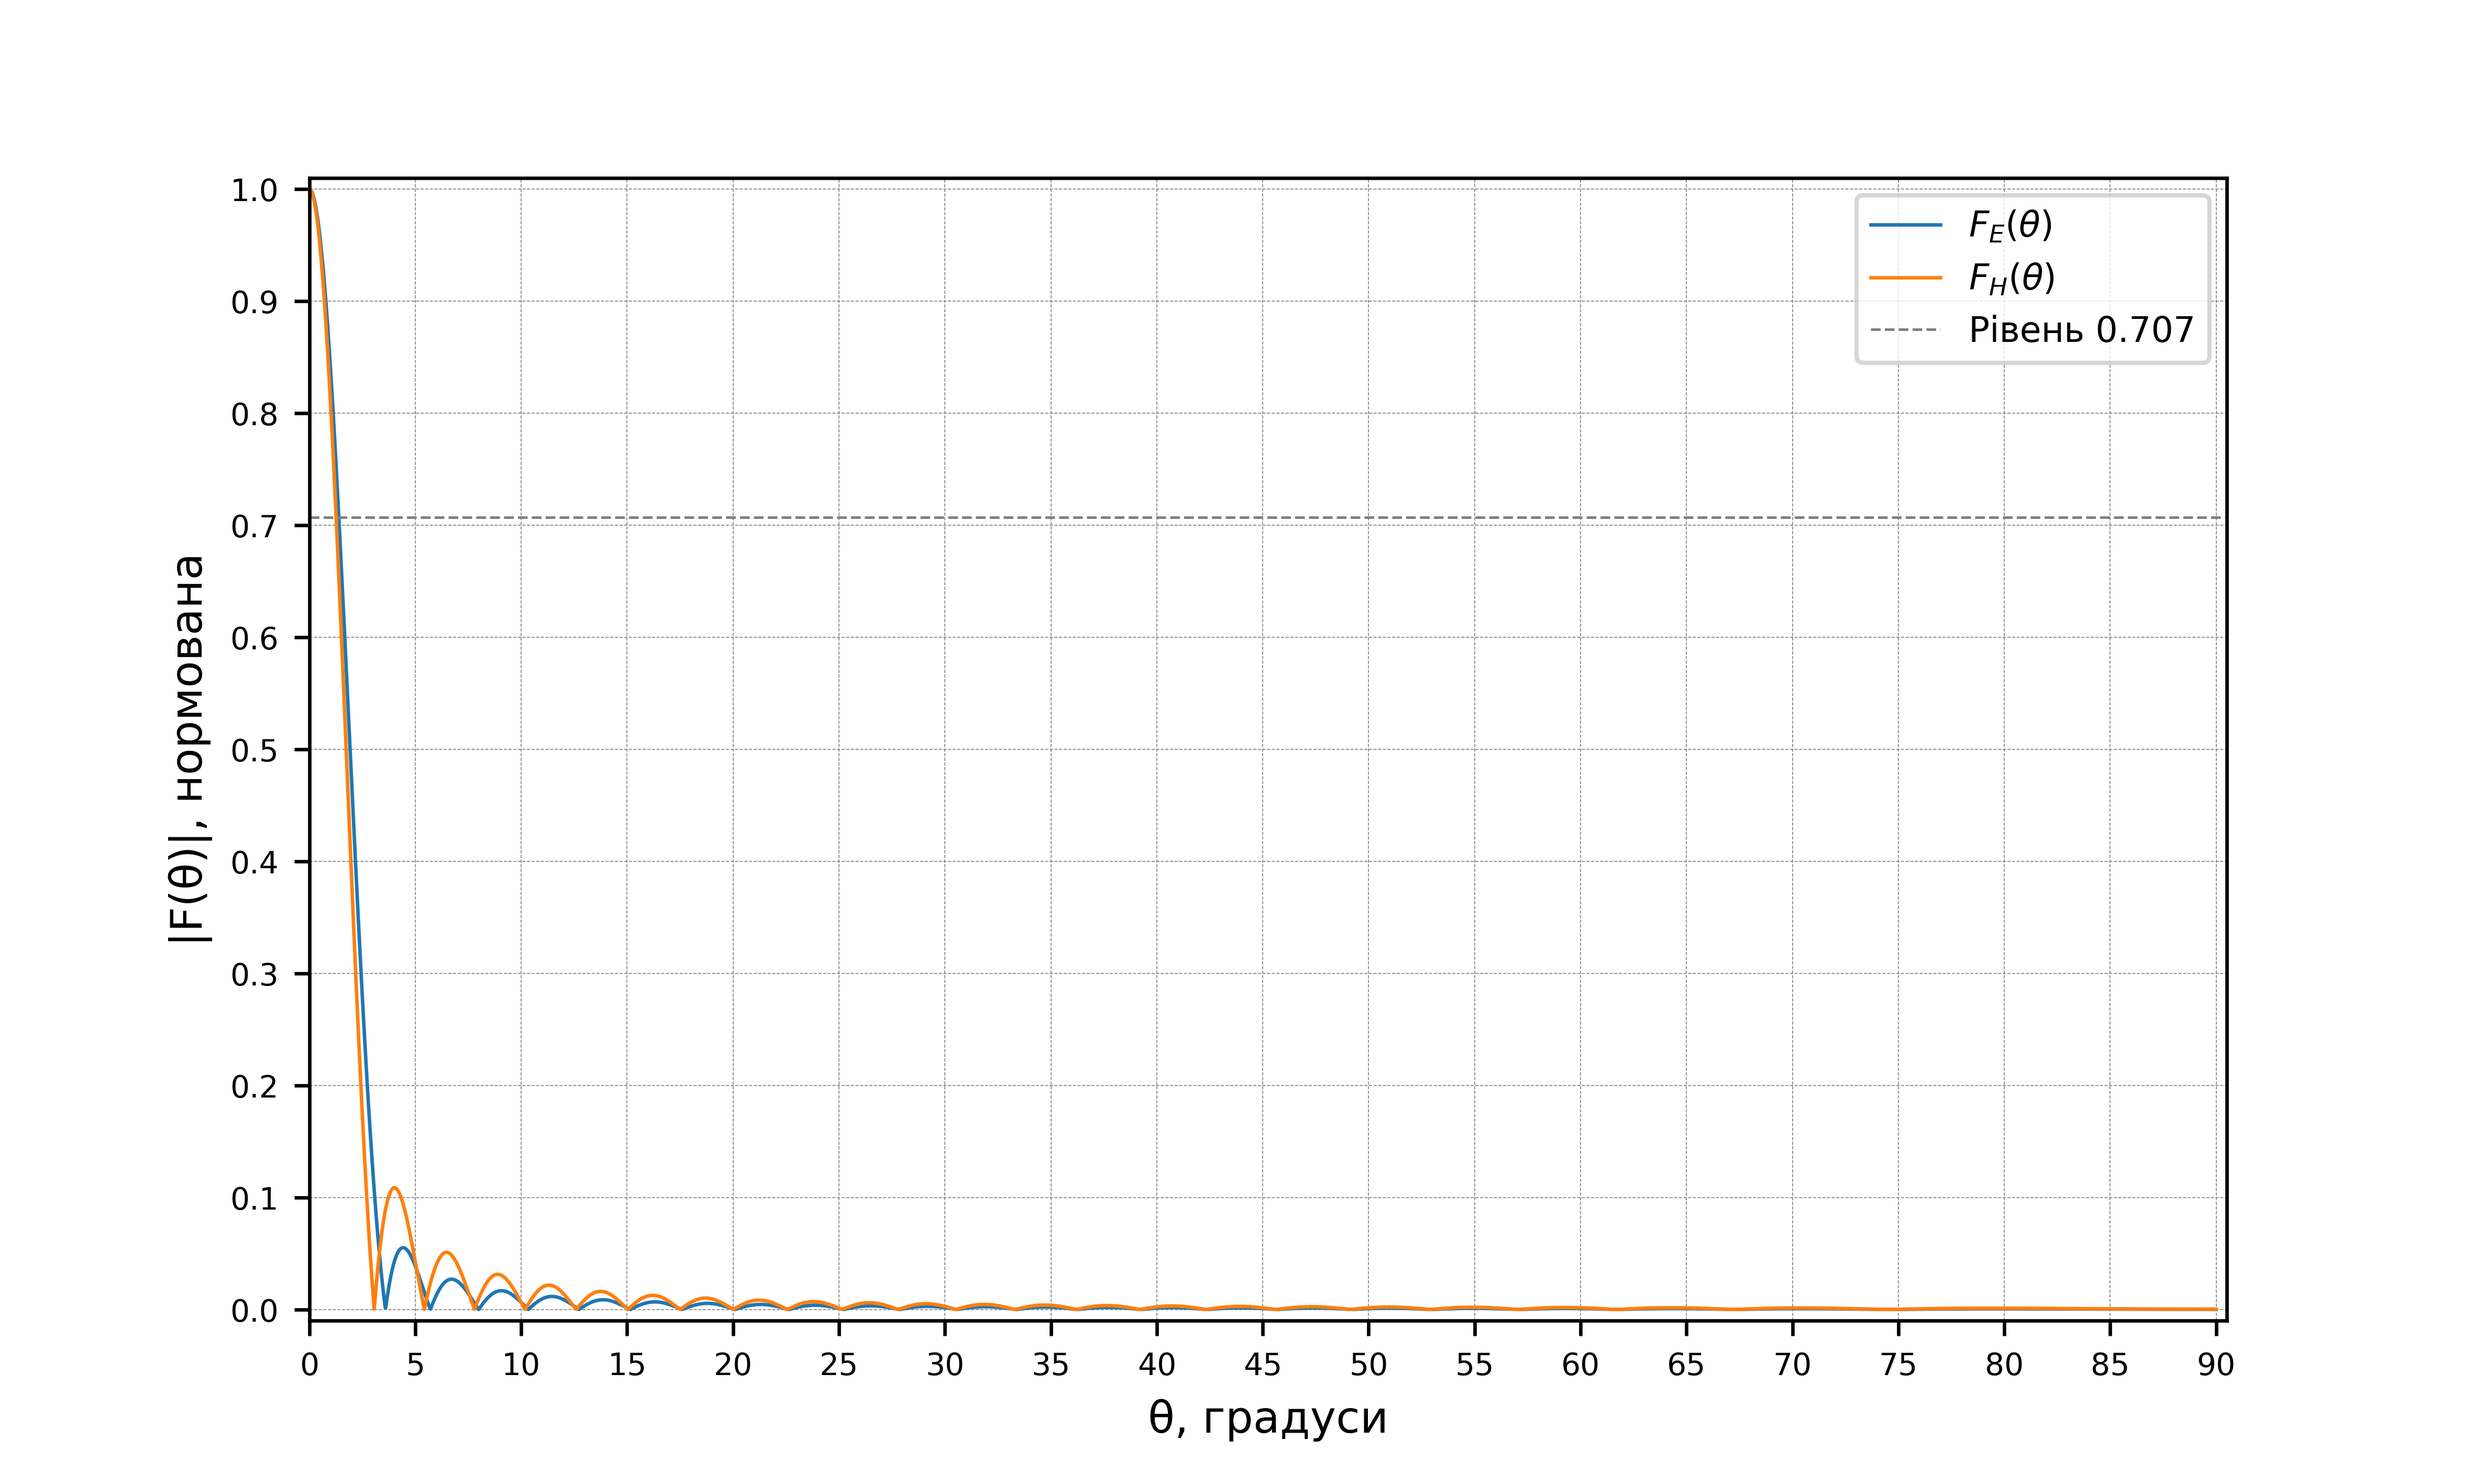
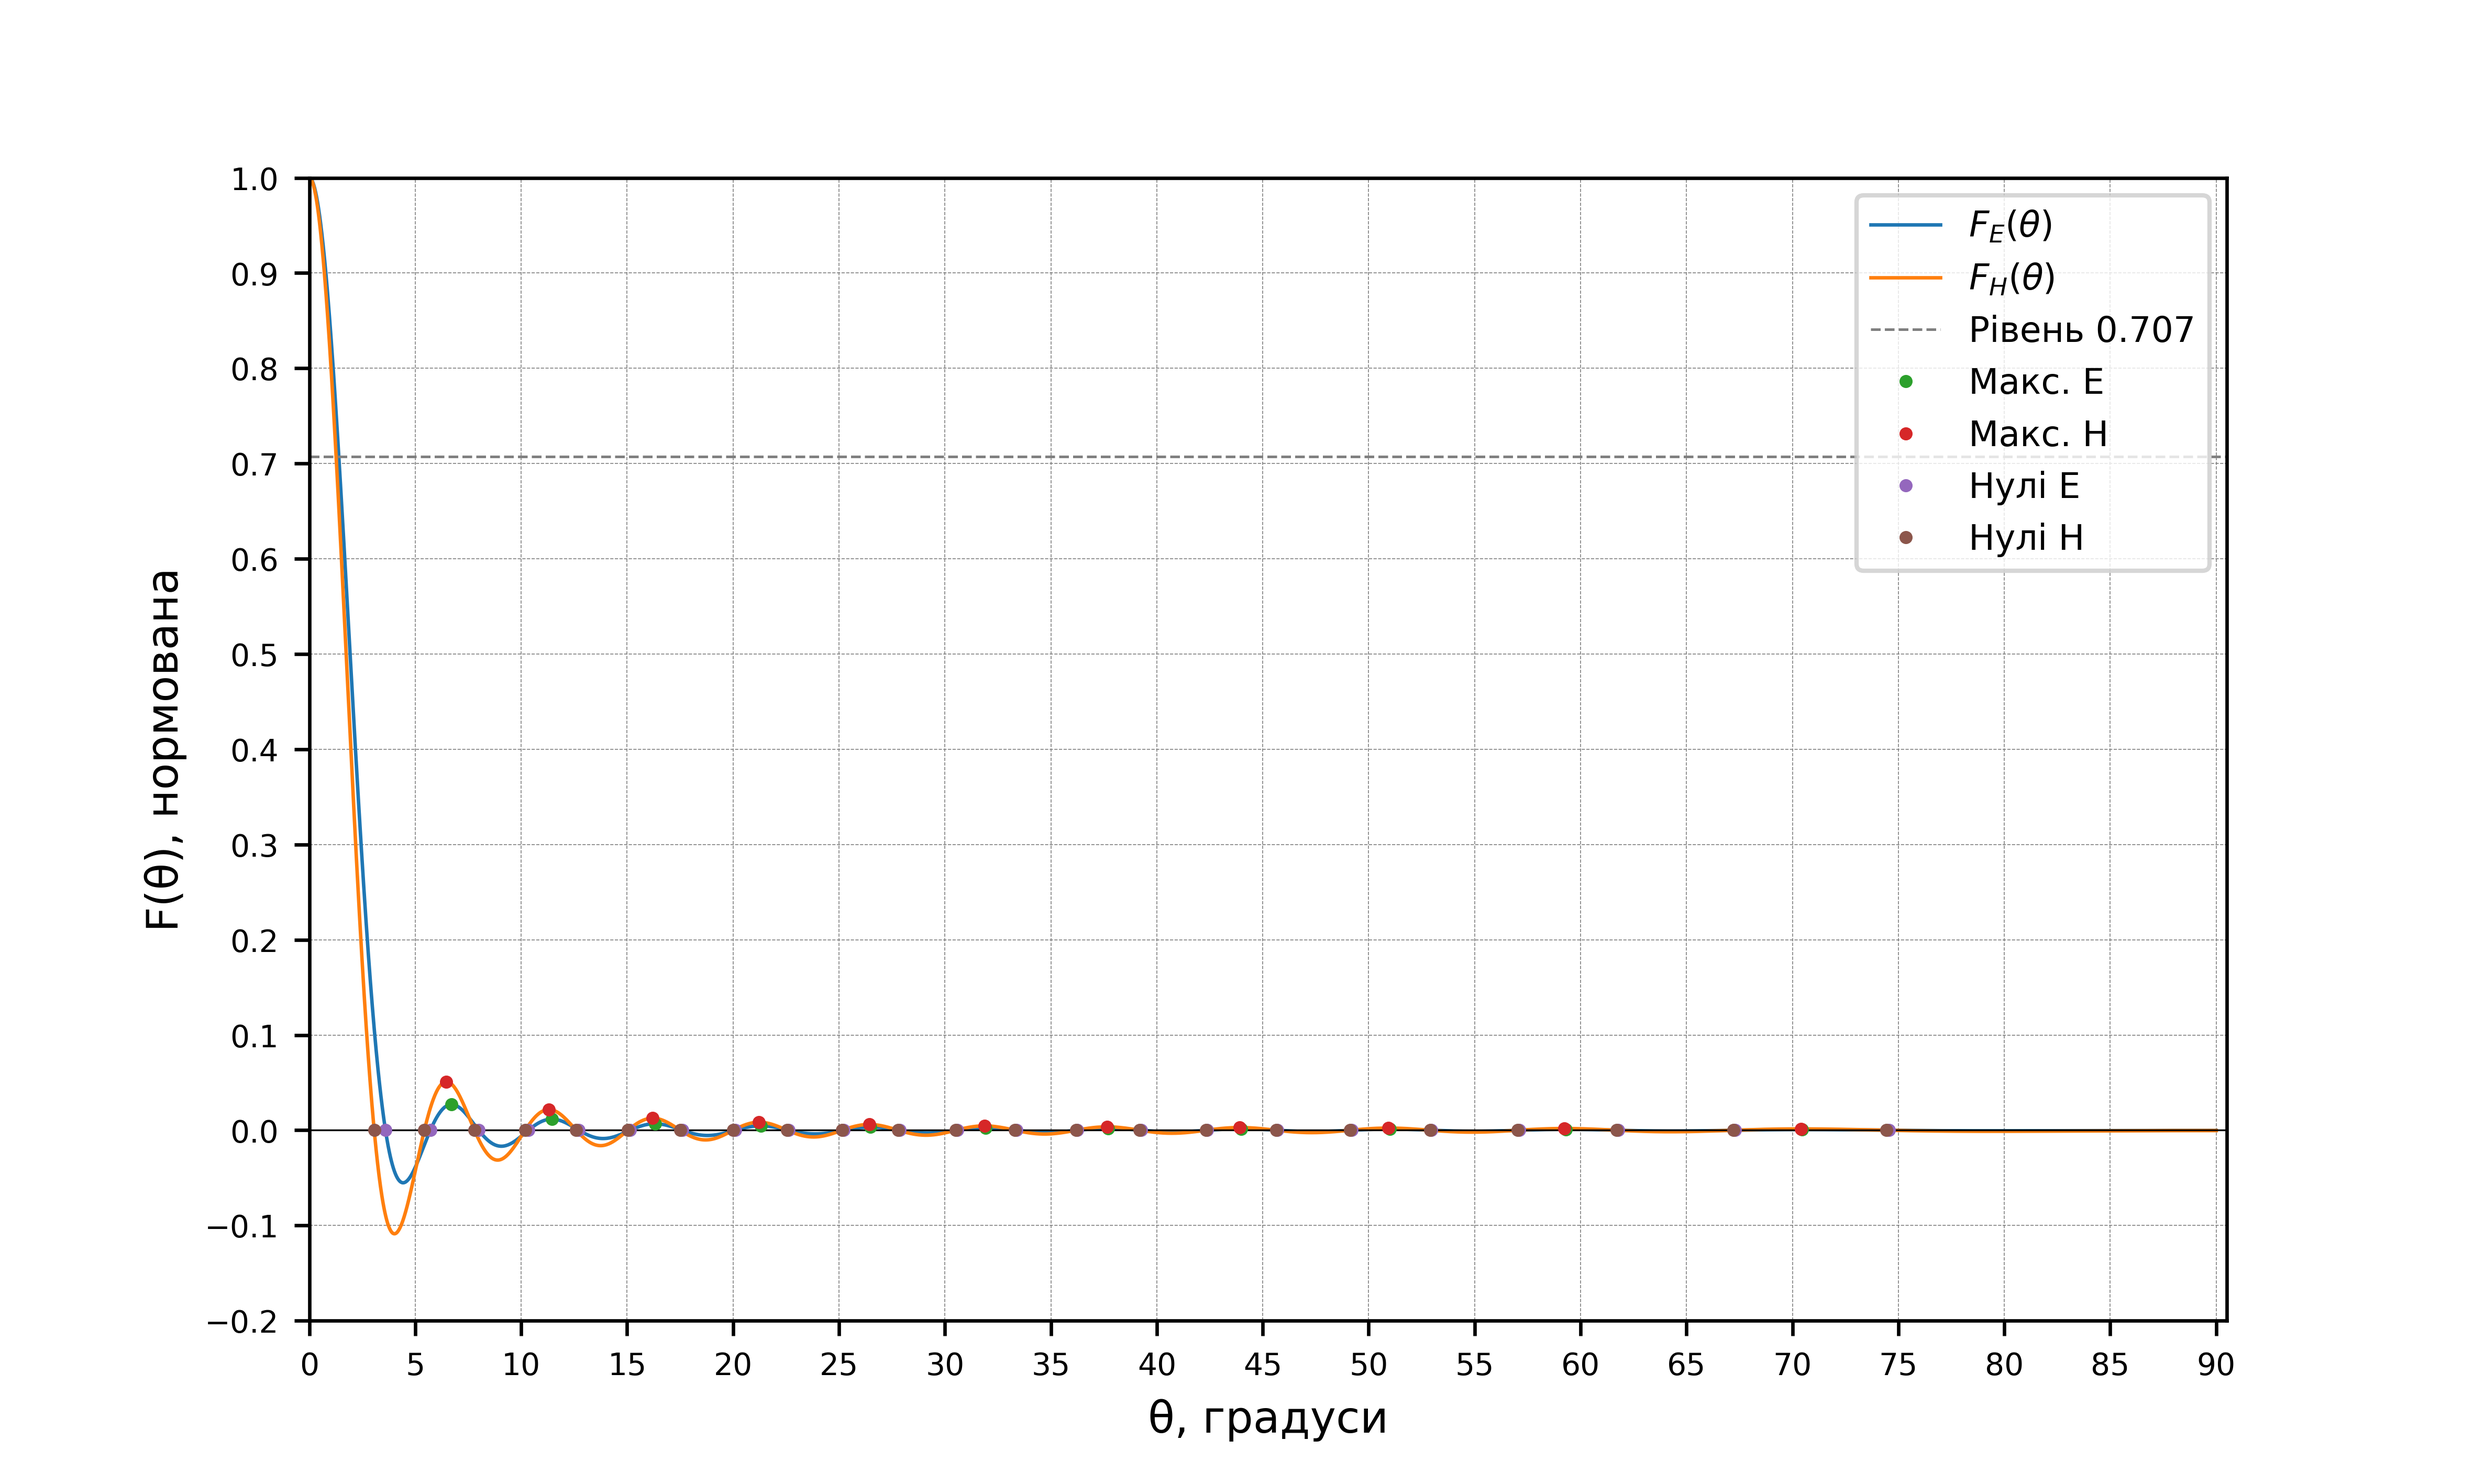
fix

diff --git a/Zerkal_Antenna/Zerakl_Antenna.py b/Zerkal_Antenna/Zerakl_Antenna.py
@@ -55,11 +55,17 @@ norm = 0.74 * J1v / v + 0.13
 FH = cos2 * (0.74 * term1 + 0.26 * term2 - 0.25 * term3) / norm
 FE = cos2 * (0.74 * term1 + 0.26 * term2 + 0.25 * term3) / norm
 
-FE_norm = numpy.abs(FE) / numpy.max(numpy.abs(FE))
-FH_norm = numpy.abs(FH) / numpy.max(numpy.abs(FH))
+max_FE = numpy.max(numpy.abs(FE))
+max_FH = numpy.max(numpy.abs(FH))
 
-idx_H = numpy.where(FH_norm >= 0.707)[0]
-idx_E = numpy.where(FE_norm >= 0.707)[0]
+FE_norm = FE / max_FE
+FH_norm = FH / max_FH
+
+FE_abs = numpy.abs(FE_norm)
+FH_abs = numpy.abs(FH_norm)
+
+idx_H = numpy.where(FH_abs >= 0.707)[0]
+idx_E = numpy.where(FE_abs >= 0.707)[0]
 
 SGP_H = 2 * theta_deg[idx_H[-1]] if len(idx_H) > 0 else 0.0
 SGP_E = 2 * theta_deg[idx_E[-1]] if len(idx_E) > 0 else 0.0
@@ -67,38 +73,67 @@ SGP_E = 2 * theta_deg[idx_E[-1]] if len(idx_E) > 0 else 0.0
 print("Ширина головної пелюстки в площині H ≈", round(SGP_H, 3), "град")
 print("Ширина головної пелюстки в площині E ≈", round(SGP_E, 3), "град")
 
-peaks_E, _ = find_peaks(FE_norm, height=0.01)
-mins_E, _ = find_peaks(-FE_norm)
-peaks_H, _ = find_peaks(FH_norm, height=0.01)
-mins_H, _ = find_peaks(-FH_norm)
+peaks_E, _ = find_peaks(FE_abs)
+mins_E, _ = find_peaks(-FE_abs)
+peaks_H, _ = find_peaks(FH_abs)
+mins_H, _ = find_peaks(-FH_abs)
 
-print("\nМаксимуми в площині E (перші 5):")
-for i in peaks_E[:5]:
-    print(f"θ ≈ {theta_deg[i]:6.3f} град, |F_E| ≈ {FE_norm[i]:.4f}")
+print("\nМаксимуми в площині E:")
+for i in peaks_E:
+    print(f"θ ≈ {theta_deg[i]:7.3f} град, |F_E| ≈ {FE_abs[i]:.4f}")
 
-print("\nМінімуми в площині E (перші 5):")
-for i in mins_E[:5]:
-    print(f"θ ≈ {theta_deg[i]:6.3f} град, |F_E| ≈ {FE_norm[i]:.4f}")
+print("\nМінімуми в площині E:")
+for i in mins_E:
+    print(f"θ ≈ {theta_deg[i]:7.3f} град, |F_E| ≈ {FE_abs[i]:.4f}")
 
-print("\nМаксимуми в площині H (перші 5):")
-for i in peaks_H[:5]:
-    print(f"θ ≈ {theta_deg[i]:6.3f} град, |F_H| ≈ {FH_norm[i]:.4f}")
+print("\nМаксимуми в площині H:")
+for i in peaks_H:
+    print(f"θ ≈ {theta_deg[i]:7.3f} град, |F_H| ≈ {FH_abs[i]:.4f}")
 
-print("\nМінімуми в площині H (перші 5):")
-for i in mins_H[:5]:
-    print(f"θ ≈ {theta_deg[i]:6.3f} град, |F_H| ≈ {FH_norm[i]:.4f}")
+print("\nМінімуми в площині H:")
+for i in mins_H:
+    print(f"θ ≈ {theta_deg[i]:7.3f} град, |F_H| ≈ {FH_abs[i]:.4f}")
+
+def find_zeros(theta_arr, F_arr):
+    zeros_theta = []
+    for i in range(1, len(F_arr)):
+        if F_arr[i] == 0:
+            zeros_theta.append(theta_arr[i])
+        elif F_arr[i - 1] * F_arr[i] < 0:
+            x1, x2 = theta_arr[i - 1], theta_arr[i]
+            y1, y2 = F_arr[i - 1], F_arr[i]
+            t = -y1 / (y2 - y1)
+            zeros_theta.append(x1 + t * (x2 - x1))
+    return numpy.array(zeros_theta)
+
+zeros_E = find_zeros(theta_deg, FE_norm)
+zeros_H = find_zeros(theta_deg, FH_norm)
+
+
+peaks_E_pos = [i for i in peaks_E if FE_norm[i] >= 0]
+peaks_H_pos = [i for i in peaks_H if FH_norm[i] >= 0]
 
 fig, ax = plt.subplots(figsize=(20 / 2.54, 12 / 2.54))
 
 ax.plot(theta_deg, FE_norm, linewidth=0.8, label="$F_E(\\theta)$")
 ax.plot(theta_deg, FH_norm, linewidth=0.8, label="$F_H(\\theta)$")
 ax.axhline(0.707, linestyle='--', linewidth=0.6, color='gray', label="Рівень 0.707")
+ax.axhline(0.0, linestyle='-', linewidth=0.4, color='black')
+
+ax.plot(theta_deg[peaks_E_pos], FE_norm[peaks_E_pos], 'o', markersize=2, label="Макс. E")
+ax.plot(theta_deg[peaks_H_pos], FH_norm[peaks_H_pos], 'o', markersize=2, label="Макс. H")
+
+ax.plot(zeros_E, numpy.zeros_like(zeros_E), 'o', markersize=2, label="Нулі E")
+ax.plot(zeros_H, numpy.zeros_like(zeros_H), 'o', markersize=2, label="Нулі H")
 
 ax.set_xlabel('θ, градуси', fontsize=10)
-ax.set_ylabel('|F(θ)|, нормована', fontsize=10)
+ax.set_ylabel('F(θ), нормована', fontsize=10)
 plt.xticks(numpy.arange(0, 91, 5), fontsize=7)
-plt.yticks(numpy.arange(0, 1.1, 0.1), fontsize=7)
-plt.ylim(-0.01, 1.01)
+plt.yticks(numpy.arange(-1.0, 1.1, 0.1), fontsize=7)
+
+
+plt.ylim(-0.2, 1.0)
+
 plt.xlim(0, 90.5)
 plt.legend(loc="upper right", fontsize=8)
 plt.grid(which='both', linestyle='--', linewidth=0.2, color='gray')
